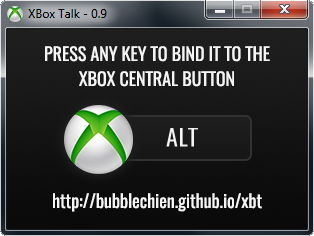
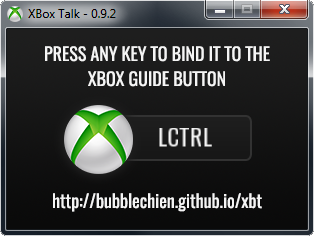
Updated XBT to version 0.9.2

Changed region(s): [[0.2293, 0.2966, 0.7452, 0.3856], [0.4873, 0.5339, 0.6879, 0.6229], [0.3153, 0.0, 0.4013, 0.1186]]

diff --git a/xbt/index.html b/xbt/index.html
@@ -11,17 +11,17 @@
 		<img src="./images/screen.png" alt="XBox Talk"/>
 	</div>
 	<p>
-		XBox Talk redirects the XBox central button to a key, allowing it to 
+		XBox Talk redirects the XBox Guide Button to a key, allowing it to 
 		be used with Mumble for example.<br/>
 		<br/>
 		Most standard keys are supported, however some are disabled (keys with 
 		special functions or likely to be already in use).<br/>
 		<br/>
-		Current version is 0.9.1, it has been tested on Windows 7 (x64) with an 
+		Current version is 0.9.2, it has been tested on Windows 7 (x64) with an 
 		XBox360 Controller.<br/>
 		<br/>
-		<a href="https://dl.dropboxusercontent.com/u/51811655/XBT_0_9_1.zip">
-			DOWNLOAD XBOX TALK 0.9.1
+		<a href="https://dl.dropboxusercontent.com/u/51811655/XBT_0_9_2.zip">
+			DOWNLOAD XBOX TALK 0.9.2
 		</a>
 	</p>
 </body>
